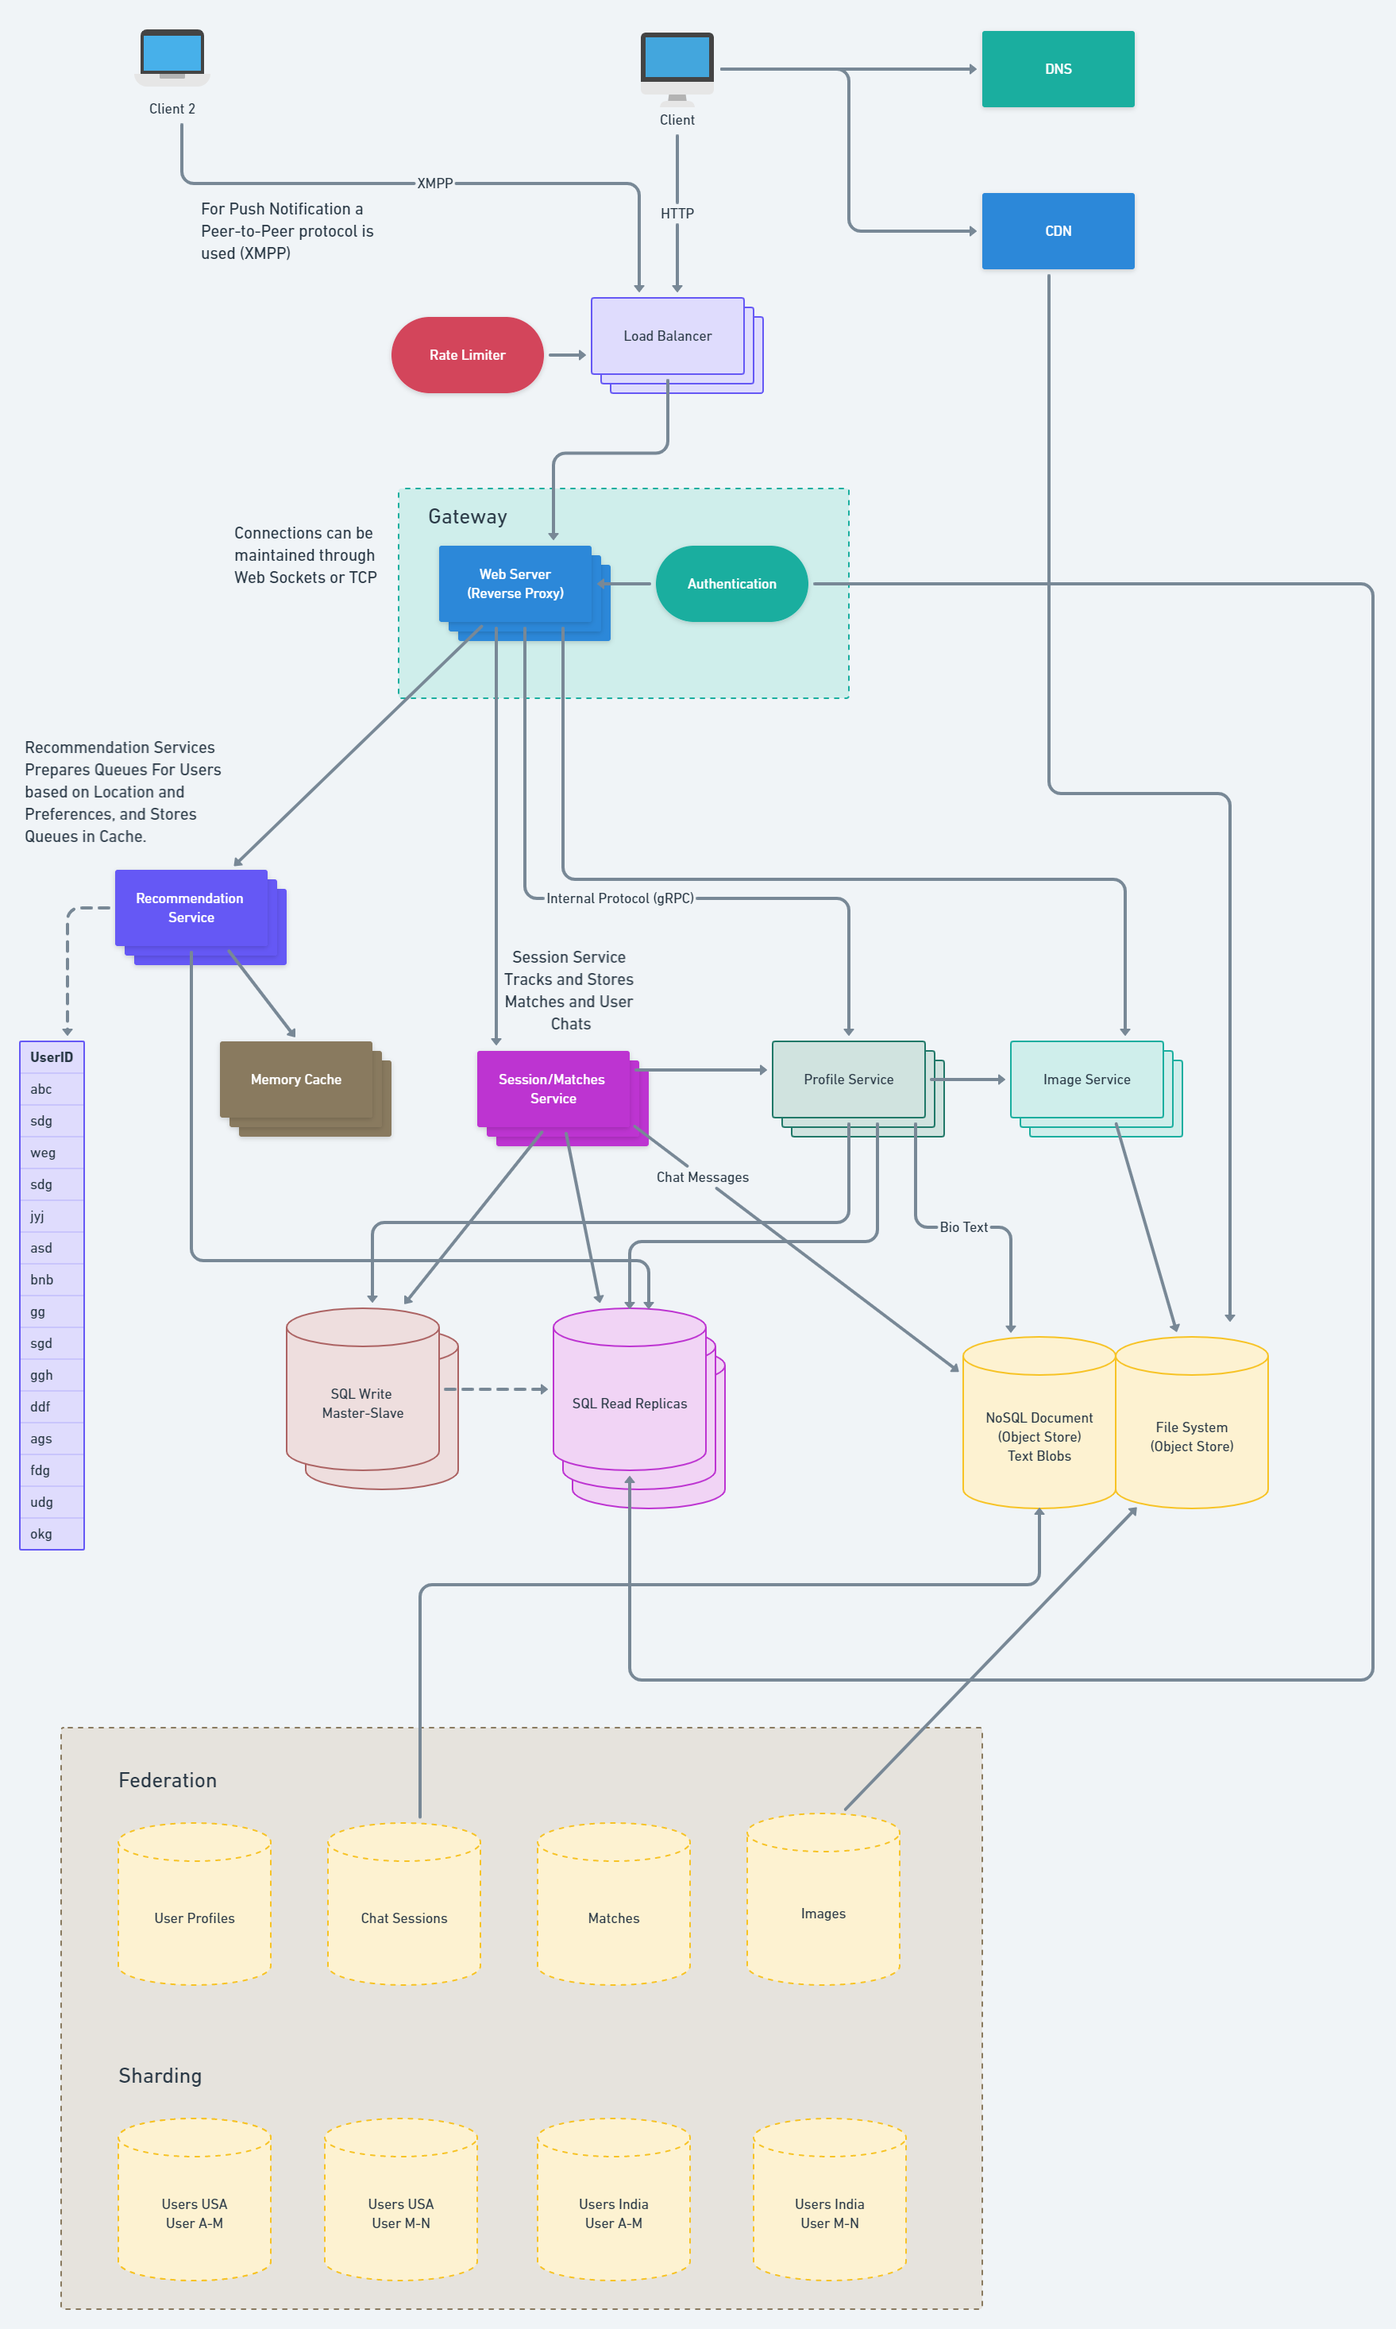
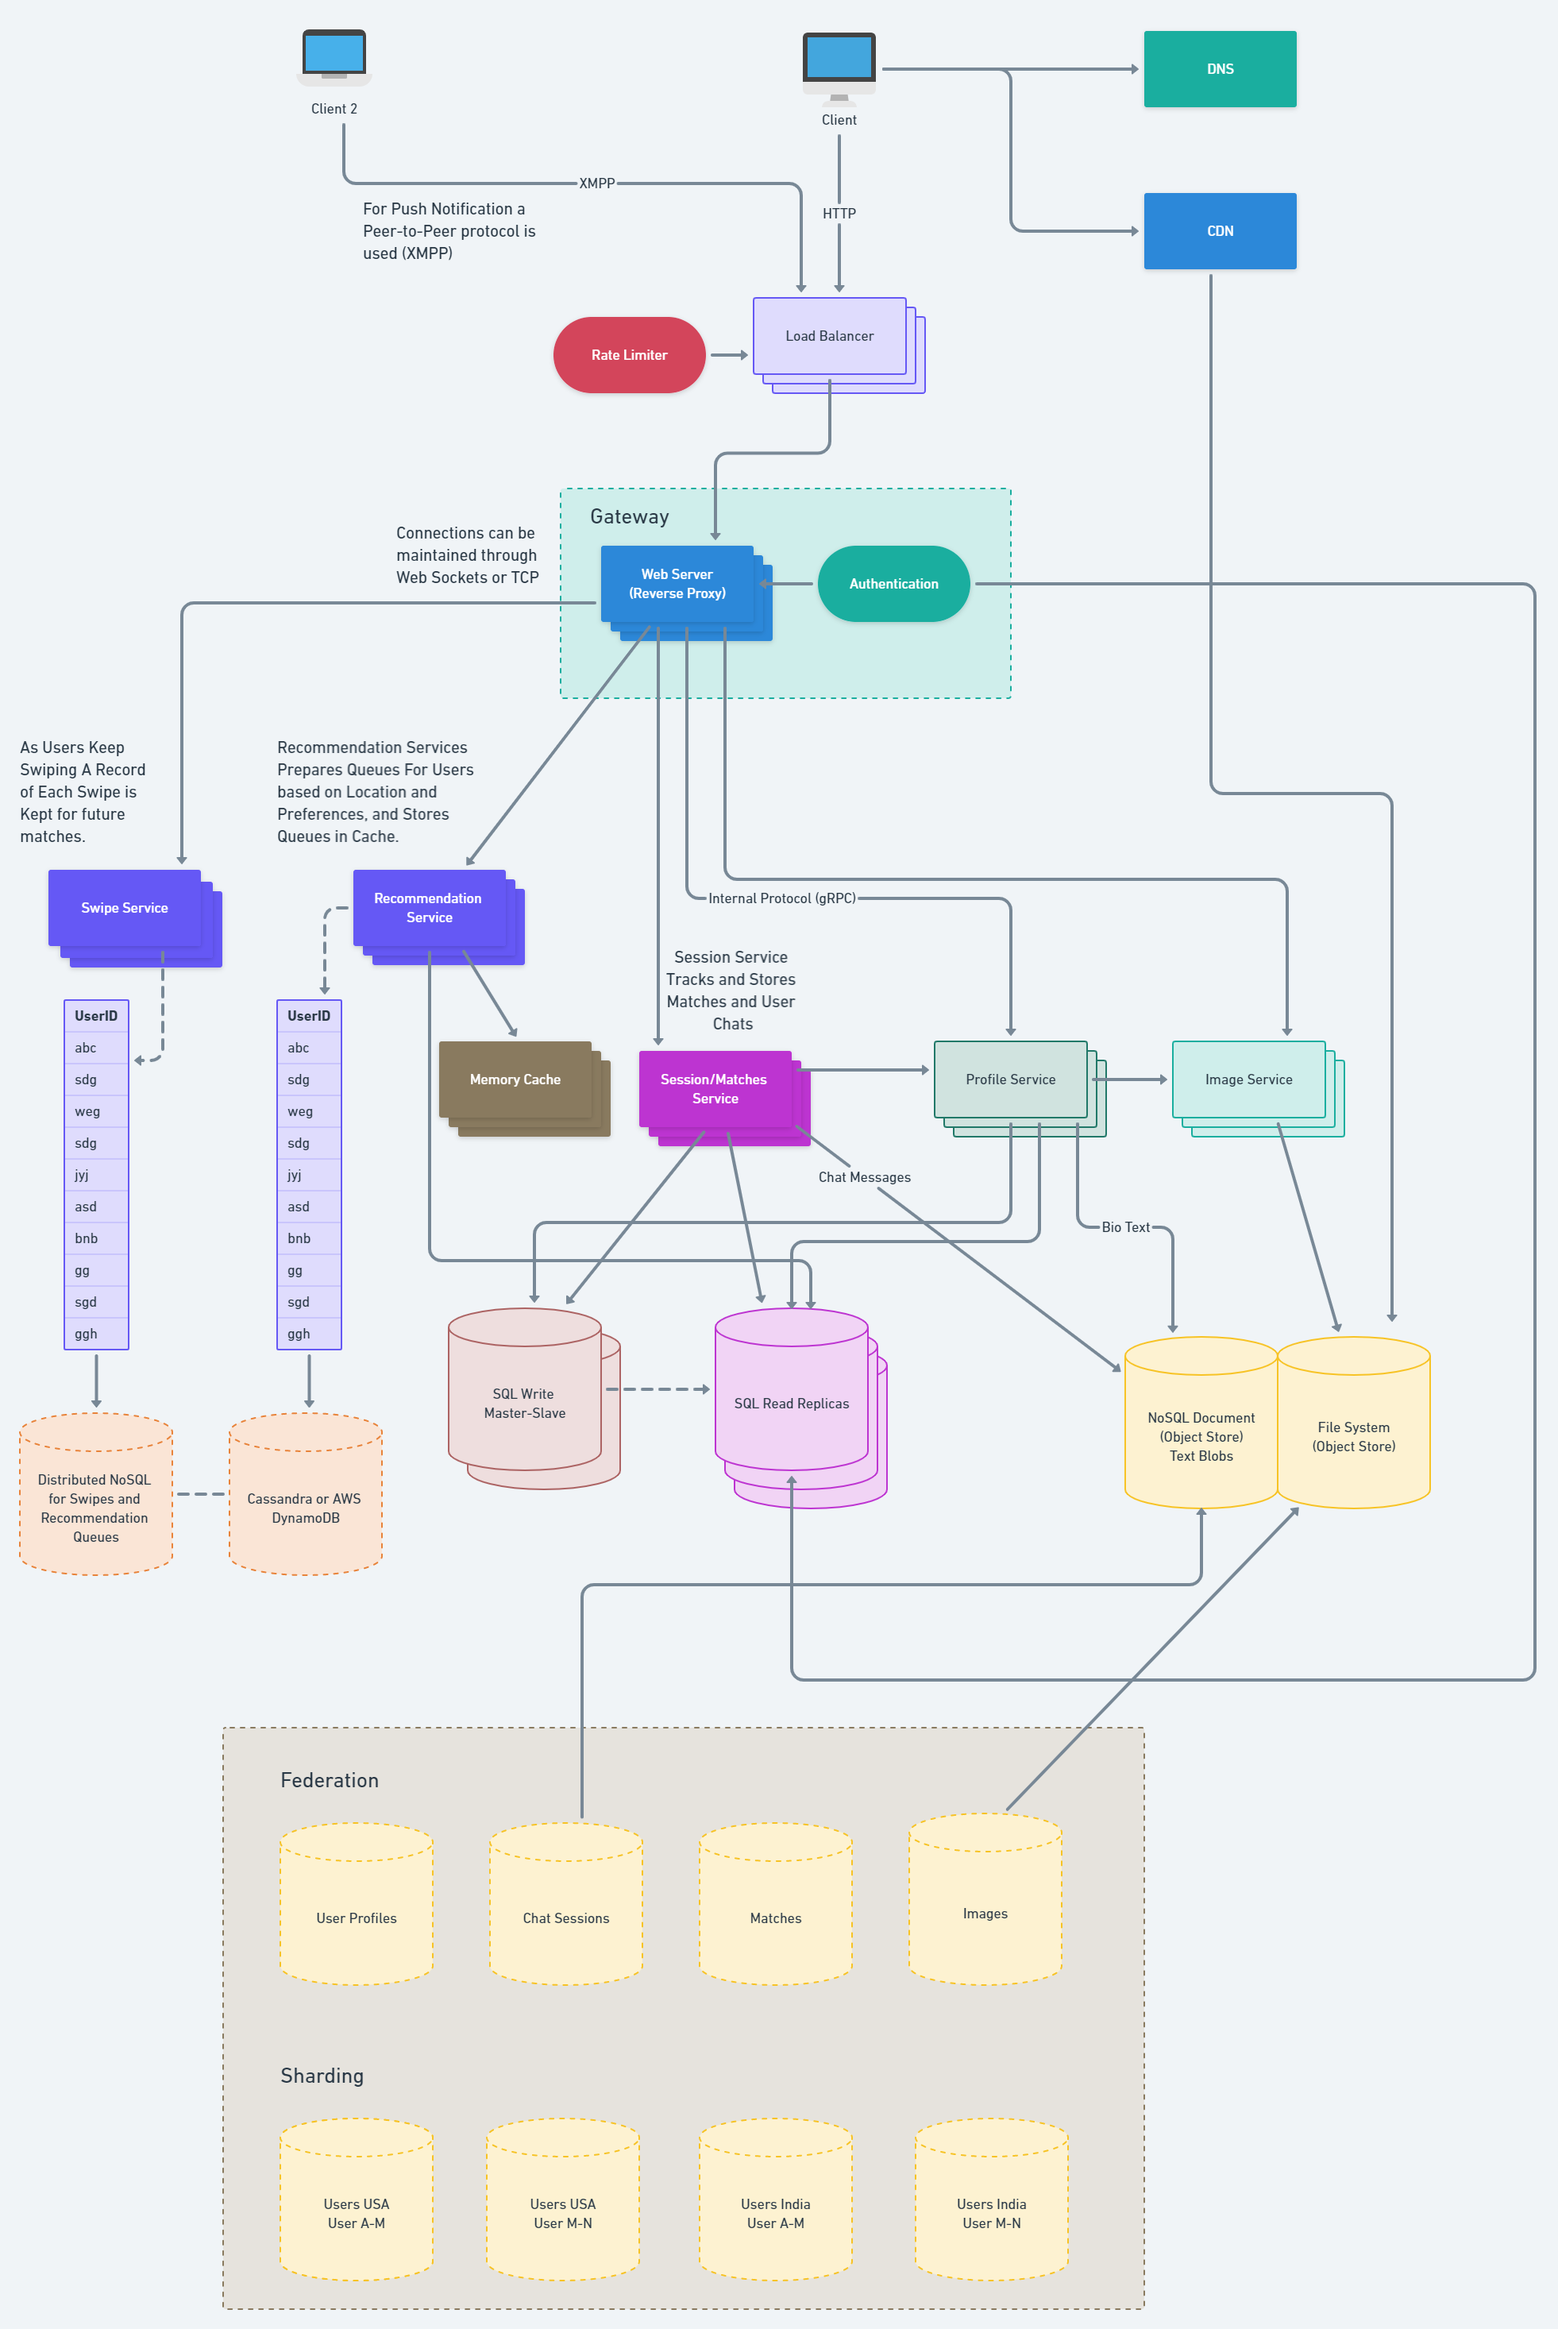
updated tinder design

diff --git a/Service Examples.md b/Service Examples.md
@@ -3,3 +3,5 @@
 **Load Balancer** - **HAProxy**, **NGINX (features a LB)**, **AWS ELB (Elastic Load Balancing)**
 
 **Reverse Proxy** - **HAProxy**
+
+**Distributed NoSQL** - **Apache Cassandra**, **AWS DynamoDB**

diff --git a/Exercises/5. Tinder.md b/Exercises/5. Tinder.md
@@ -10,3 +10,6 @@
 
 
 ![tinder](./tinder.png)
+
+
+![tinder2](./tinder2.png)
